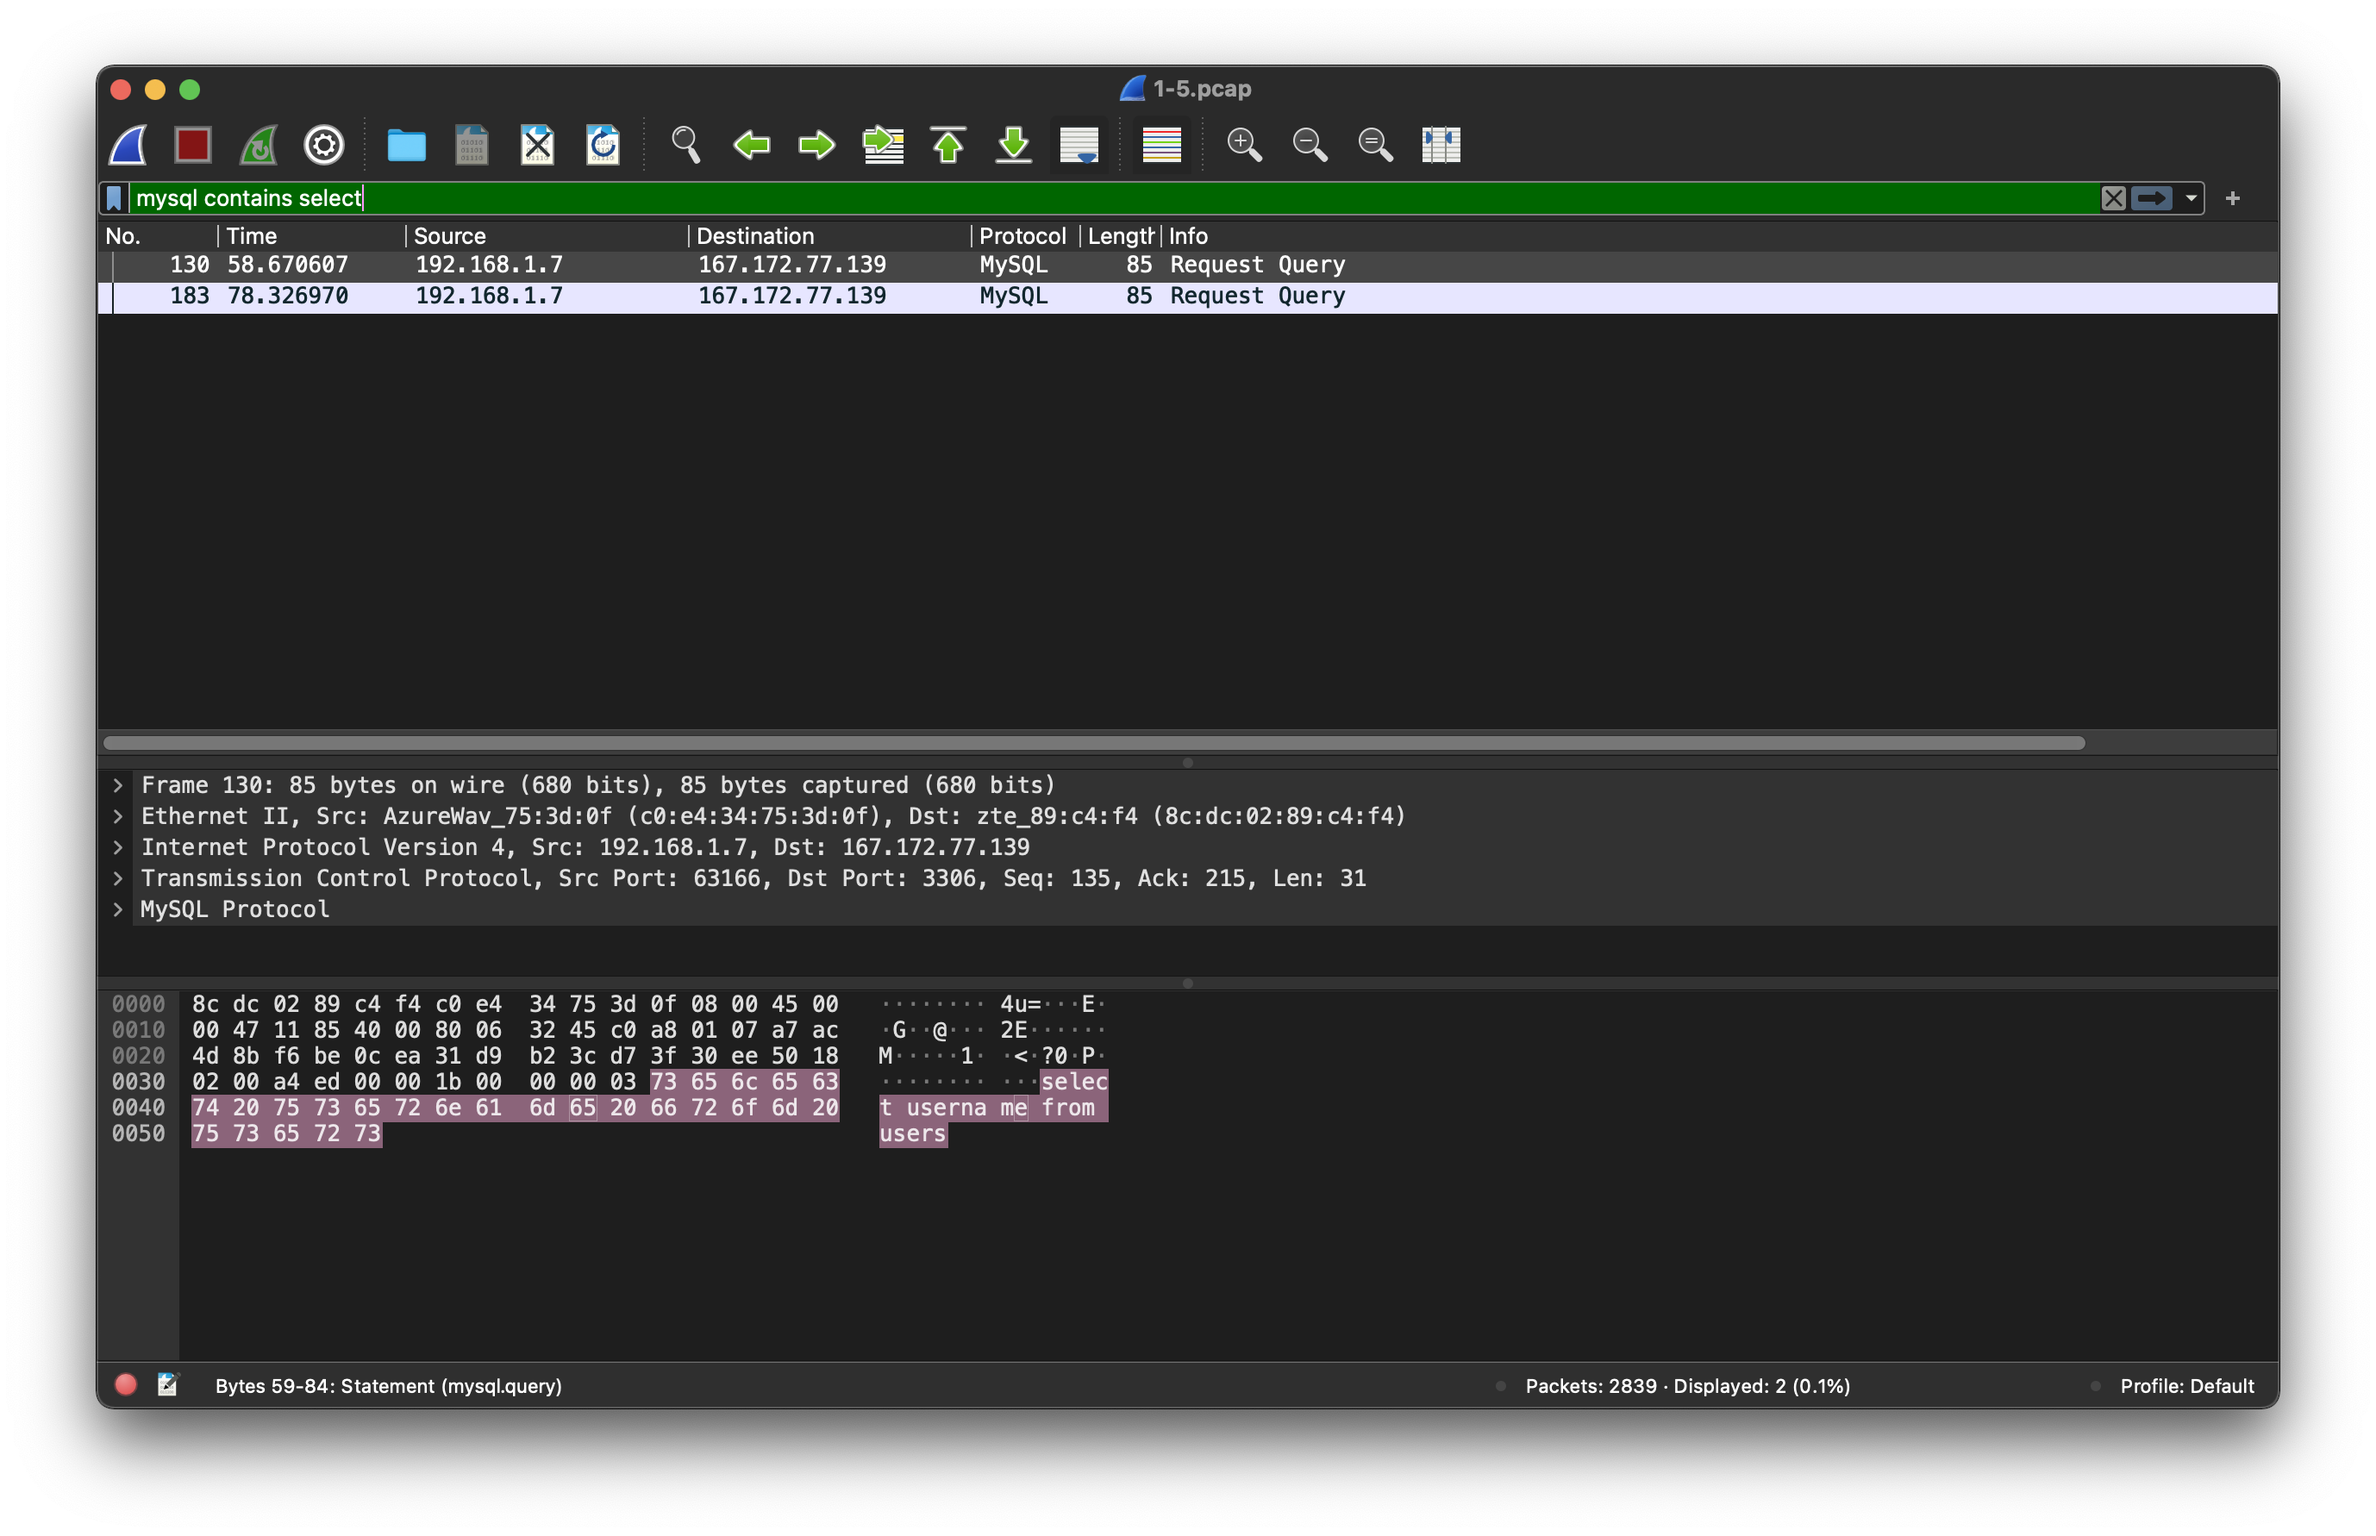
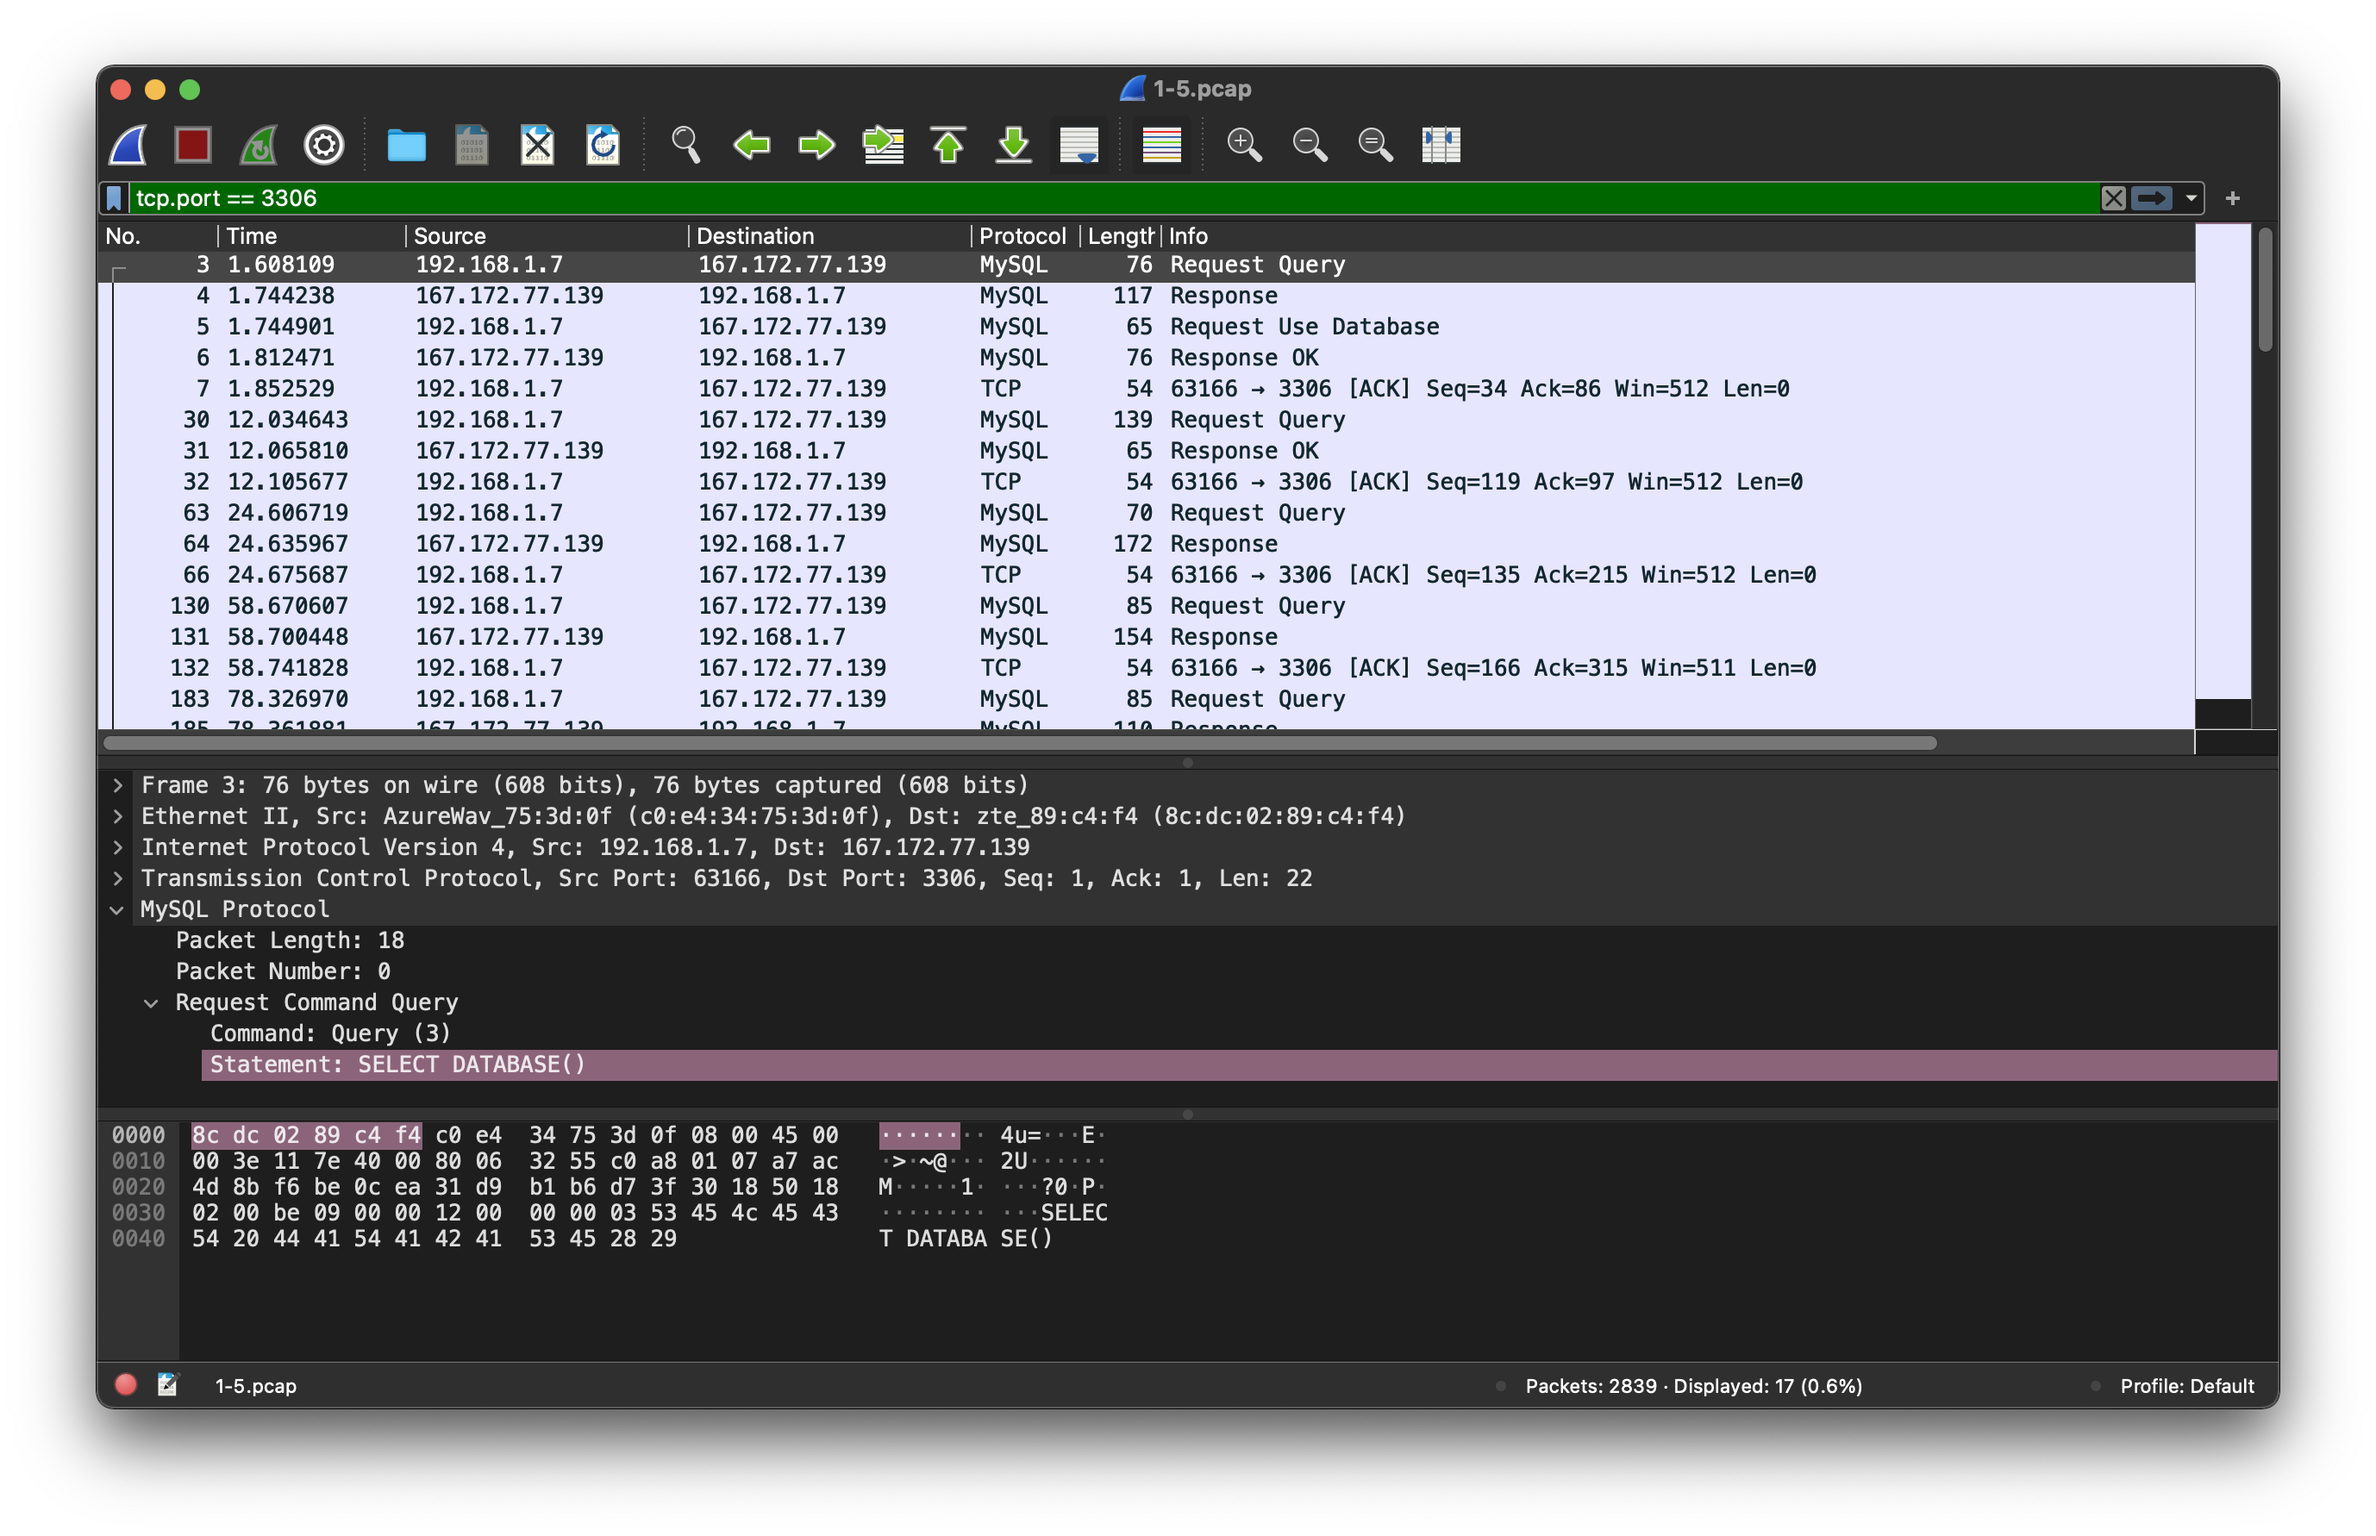
update lapres

diff --git a/README.md b/README.md
@@ -8,13 +8,23 @@ Anggota Kelompok C08 :
 * 05111940000209 - Refaldyka Galuh Pratama
 
 ## 1. Sebutkan webserver yang digunakan pada "ichimarumaru.tech"! 
-
+- Display filter dengan syntax `http.host contains "ichimarumaru.tech"`
+![no1-1](assets/no1-1.png)
+- Klik kanan dan klik follow lalu pilih TCP stream
+- Web server yang digunakan adalah nginx/1.18.0 (Ubuntu)
+![no1-2](assets/no1-2.png)
 
 ## 2. Temukan paket dari web-web yang menggunakan basic authentication method!
+Gunakan syntax filter `http.authbasic` maka diperoleh hasil berikut :
+![no2](assets/no2.png)
 
 ## 3. Ikuti perintah di basic.ichimarumaru.tech! Username dan password bisa didapatkan dari file .pcapng!
 
 ## 4. Temukan paket mysql yang mengandung perintah query select!
+Gunakan filter `tcp.port == 3306` karena port default NySQL adalah 3306
+![no4-1](assets/no4-1.png)
+![no4-2](assets/no4-2.png)
+![no4-3](assets/no4-3.png)
 
 ## 5. Login ke portal.ichimarumaru.tech kemudian ikuti perintahnya! Username dan password bisa didapat dari query insert pada table users dari file .pcap!
 
@@ -33,7 +43,15 @@ Anggota Kelompok C08 :
 ## 12. Filter sehingga wireshark hanya mengambil paket yang mengandung port 21!
 
 ## 13. Filter sehingga wireshark hanya menampilkan paket yang menuju port 443! Gunakan perintah capture filter dst port 443
+Gunakan syntax `dst port 443` untuk mendapakan paket menuju port 443
+![no13-1](assets/no13-1.png)
+sehingga diperoleh
+![no13-2](assets/no13-2.png)
 
 ## 14. Filter sehingga wireshark hanya mengambil paket yang tujuannya ke kemenag.go.id!Gunakan perintah capture filter dst host kemenag.go.id
+Gunakan capture filter dengan syntax `dst host kemenag.go.id`
+![no14-1](assets/no14-1.png)
+dengan hasil berikut dimana semua destination menuju IP address yang sama
+![no14-2](assets/no14-2.png)
 
 ## 15. Filter sehingga wireshark hanya mengambil paket yang berasal dari ip kalian!
